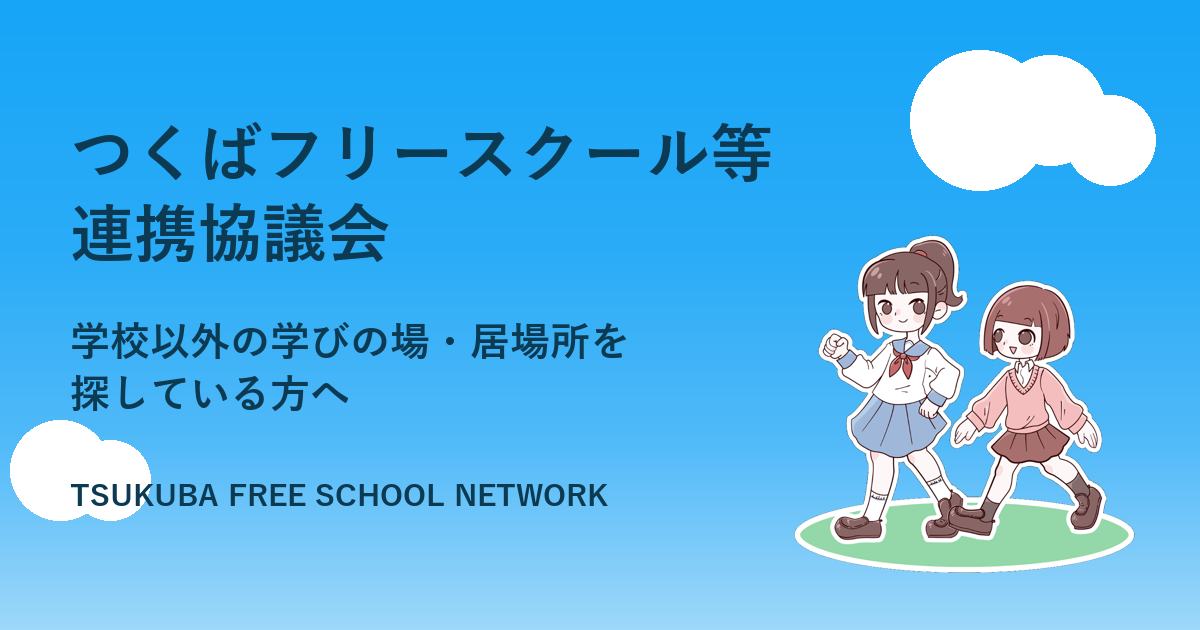
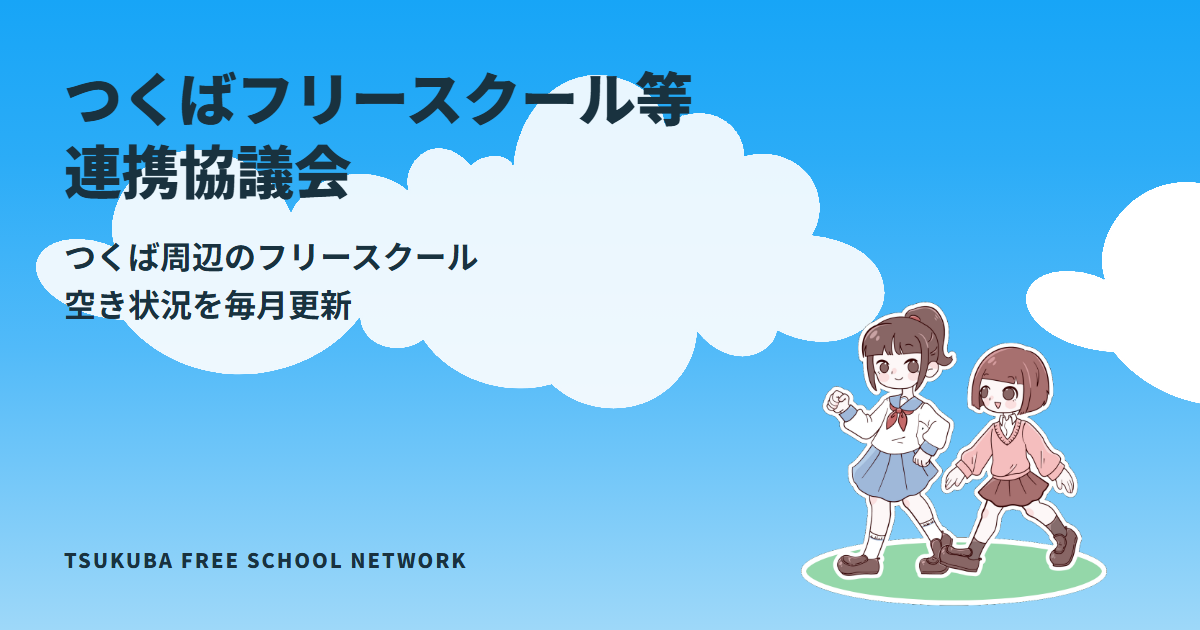
サイトタイトルとOGP画像を、内容が伝わるキャッチコピーに変更
タイトル(ブラウザタブ・検索結果・SNSシェア時)を
「つくば周辺のフリースクール空き状況を毎月更新｜つくばフリースクール等連携協議会」に変更。
OGP画像にも同じキャッチコピーを追加し、リンクを貼った際のカード表示だけでも
内容が伝わるようにした

diff --git a/client/src/pages/Home.tsx b/client/src/pages/Home.tsx
@@ -22,7 +22,7 @@ function Header(){const [open,setOpen]=useState(false); return <header className
 function Footer(){return <footer><div className="footer-inner"><div><div className="brand footer-brand"><img className="brand-logo" src="/assets/council-logo-footer.png" alt="つくばフリースクール等連携協議会"/><span><b>つくばフリースクール等連携協議会</b><small>TSUKUBA FREE SCHOOL NETWORK</small></span></div><p>子ども一人ひとりが、自分に合った<br/>学びの場とつながれる地域へ。</p></div><div className="footer-links"><div className="footer-col"><b>事務局</b><span>M&amp;Sプロジェクト(担当：西脇)</span><a href="mailto:msproject.tsukuba@gmail.com">msproject.tsukuba@gmail.com</a></div><div className="footer-col"><b>資料</b><a href="/documents/pamphlet.pdf" target="_blank" rel="noreferrer">三つ折りパンフレット(PDF)</a><a href="/documents/overview.pdf" target="_blank" rel="noreferrer">協議会概要スライド(PDF)</a><a href="/documents/kaisoku.pdf" target="_blank" rel="noreferrer">会則(PDF)</a></div></div></div><div className="copyright">© 2026 つくばフリースクール等連携協議会</div></footer>}
 function SchoolCard({school, id}:{school:typeof schools[number]; id?:string}){const [open,setOpen]=useState(false);const href = school.site!=="#" ? school.site : school.insta;return <div id={id} className="school-card-wrap"><a href={href} target="_blank" rel="noreferrer" className={`school-card ${school.tone} school-card-desktop`}><div className="school-body"><div className="card-meta"><span><MapPin size={13}/>{school.area}</span></div><h3>{school.name}</h3><p>{school.comment}</p><div className="school-tags"><span>{school.target}</span><span className="school-go" aria-hidden="true"><ArrowUpRight size={15}/></span></div></div></a><div className={`school-card-mobile${open?" is-open":""}`}><button type="button" className="school-mobile-head" aria-expanded={open} onClick={()=>setOpen(!open)}><span className="school-mobile-area"><MapPin size={12}/>{school.area}</span><span className="school-mobile-name">{school.name}</span><span className="school-mobile-chevron" aria-hidden="true">{open ? "−" : "+"}</span></button>{open && <div className="school-mobile-body"><p>{school.comment}</p><div className="school-tags"><span>{school.target}</span></div><a className="school-site-link" href={href} target="_blank" rel="noreferrer">公式サイトへ →</a></div>}</div></div>}
 const sortedSchools=[...schools].sort((a,b)=>a.yomi.localeCompare(b.yomi,"ja"));
-export default function Home(){useEffect(() => { document.title = "つくばフリースクール等連携協議会｜学校以外の学びの場・居場所を探している方へ"; }, []); const [areaFilter,setAreaFilter]=useState<"all"|"tsukuba"|"mirai">("all"); const visibleSchools=sortedSchools.filter(s=>areaFilter==="all"||(areaFilter==="mirai"?s.area.startsWith("つくばみらい市"):s.area.startsWith("つくば市"))); const chooseArea=(area:"all"|"tsukuba"|"mirai")=>{setAreaFilter(area); if(area==="mirai") window.setTimeout(()=>document.getElementById("imakoko")?.scrollIntoView({behavior:"smooth",block:"center"}),50)}; return <div className="site-page sky-page"><div className="sky-fixed" aria-hidden="true"/><Header/><main><section className="hero"><div className="hero-copy"><p className="eyebrow">TSUKUBA FREE SCHOOL NETWORK</p><h1>学校以外の<br/><em>学びの場・居場所を</em><br/>探している方へ</h1><p className="hero-lead">つくばフリースクール等連携協議会は、<br/>学校の外にある学びの場と、<br/>子どもたち・ご家族をつなぐネットワークです。</p><div className="hero-actions"><a className="button button-primary" href="#schools">参加スクール一覧 <span>↓</span></a></div><p className="last-updated hero-updated">最終更新：{formatDateSlash(latestUpdate.date)}　<a href="/history">更新履歴 はこちら →</a></p></div><div className="hero-art"><img className="hero-child" src="/assets/child02-1.png" alt="フリースクールへ向かう子どもたち" /></div></section>
+export default function Home(){useEffect(() => { document.title = "つくば周辺のフリースクール空き状況を毎月更新｜つくばフリースクール等連携協議会"; }, []); const [areaFilter,setAreaFilter]=useState<"all"|"tsukuba"|"mirai">("all"); const visibleSchools=sortedSchools.filter(s=>areaFilter==="all"||(areaFilter==="mirai"?s.area.startsWith("つくばみらい市"):s.area.startsWith("つくば市"))); const chooseArea=(area:"all"|"tsukuba"|"mirai")=>{setAreaFilter(area); if(area==="mirai") window.setTimeout(()=>document.getElementById("imakoko")?.scrollIntoView({behavior:"smooth",block:"center"}),50)}; return <div className="site-page sky-page"><div className="sky-fixed" aria-hidden="true"/><Header/><main><section className="hero"><div className="hero-copy"><p className="eyebrow">TSUKUBA FREE SCHOOL NETWORK</p><h1>学校以外の<br/><em>学びの場・居場所を</em><br/>探している方へ</h1><p className="hero-lead">つくばフリースクール等連携協議会は、<br/>学校の外にある学びの場と、<br/>子どもたち・ご家族をつなぐネットワークです。</p><div className="hero-actions"><a className="button button-primary" href="#schools">参加スクール一覧 <span>↓</span></a></div><p className="last-updated hero-updated">最終更新：{formatDateSlash(latestUpdate.date)}　<a href="/history">更新履歴 はこちら →</a></p></div><div className="hero-art"><img className="hero-child" src="/assets/child02-1.png" alt="フリースクールへ向かう子どもたち" /></div></section>
 
 		<section className="letter-section"><div className="section-heading"><div><p className="eyebrow">MONTHLY LETTER</p><h2>つくば不登校・<em>多様な学びの場だより</em></h2></div></div><div className="letter-card"><div className="letter-image-slot letter-image-ready"><ImageViewer src="/assets/tayori-2026-11.png" alt="つくば不登校・多様な学びの場だより 2026年11月号" showShare={false}/></div><div className="letter-copy"><h3>2026年11月号</h3><p className="letter-line">各スクールの空き状況・近況報告</p><p className="letter-note">を毎月更新でお届けしています</p><a className="letter-pickup" href="/letters">バックナンバーはこちら →</a><div className="letter-share"><ShareButtons src="/assets/tayori-2026-11.png" alt="つくば不登校・多様な学びの場だより 2026年11月号"/></div></div><div className="letter-lines"><span></span><span></span><span></span></div></div><div className="pickup-action"><a className="archive-link" href="https://note.com/tfc298/n/n55b8341c58c6" target="_blank" rel="noopener noreferrer">ピックアップ「ROBE学園」の詳細を見る <span>→</span></a><small>外部サイトが開きます</small></div></section>
 		<section className="schools-section" id="schools"><div className="section-heading"><div><p className="eyebrow">SCHOOLS & PLACES</p><h2>参加スクール一覧</h2><p className="section-lead">つくば周辺の、多様な学びの場です。<br/>詳しくは、それぞれのサイトをご覧ください。</p></div><div className="filter-tags"><button type="button" className={areaFilter==="all"?"active":""} onClick={()=>chooseArea("all")}>すべて</button><button type="button" className={areaFilter==="tsukuba"?"active":""} onClick={()=>chooseArea("tsukuba")}>つくば市</button><button type="button" className={areaFilter==="mirai"?"active":""} onClick={()=>chooseArea("mirai")}>つくばみらい市</button></div></div><div className="schools-grid">{visibleSchools.map(s=><SchoolCard key={s.name} id={s.name.includes("imakoko")?"imakoko":s.name.includes("でんでん")?"denden":undefined} school={s}/>)}</div><div className="map-note"><ImageViewer src={storageImage} alt="参加団体の位置を示した地図" showShare={false}/><div className="map-note-text"><p className="eyebrow">AT A GLANCE</p><h3>マップから探す</h3><p>各スクールの所在地と概要を図解しています。</p><ShareButtons src={storageImage} alt="参加団体の位置を示した地図"/></div></div></section><section className="quick"><div className="quick-label">あなたに合わせた<br/><b>入口</b>から</div><a href="/parents"><b>保護者の方へ</b><small>相談したい、話を聞いてほしい</small><strong>→</strong></a><a href="/join"><b>団体の方へ</b><small>スクールを掲載・参加したい</small><strong>→</strong></a><a href="/donation"><b>応援したい方へ</b><small>寄附を受け付けています</small><strong>→</strong></a></section>

diff --git a/client/index.html b/client/index.html
@@ -7,7 +7,7 @@
       name="viewport"
       content="width=device-width, initial-scale=1.0, maximum-scale=1" />
     <link rel="icon" type="image/svg+xml" href="/favicon.svg" />
-    <title>つくばフリースクール等連携協議会</title>
+    <title>つくば周辺のフリースクール空き状況を毎月更新｜つくばフリースクール等連携協議会</title>
     <link rel="preconnect" href="https://fonts.googleapis.com" />
     <link rel="preconnect" href="https://fonts.gstatic.com" crossorigin />
     <link
@@ -16,7 +16,7 @@
     <meta name="description" content="つくば市やその周辺の、フリースクール・オルタナティブスクール・居場所などのネットワークです。子ども一人ひとりに合った学びの場を探せます。" />
     <meta property="og:type" content="website" />
     <meta property="og:site_name" content="つくばフリースクール等連携協議会" />
-    <meta property="og:title" content="つくばフリースクール等連携協議会" />
+    <meta property="og:title" content="つくば周辺のフリースクール空き状況を毎月更新｜つくばフリースクール等連携協議会" />
     <meta property="og:description" content="学校以外の学びの場・居場所を探している方へ。つくば市やその周辺のスクールを紹介しています。" />
     <meta property="og:url" content="https://298freeschool-kyougikai.pages.dev/" />
     <meta property="og:image" content="https://298freeschool-kyougikai.pages.dev/ogp.png" />
